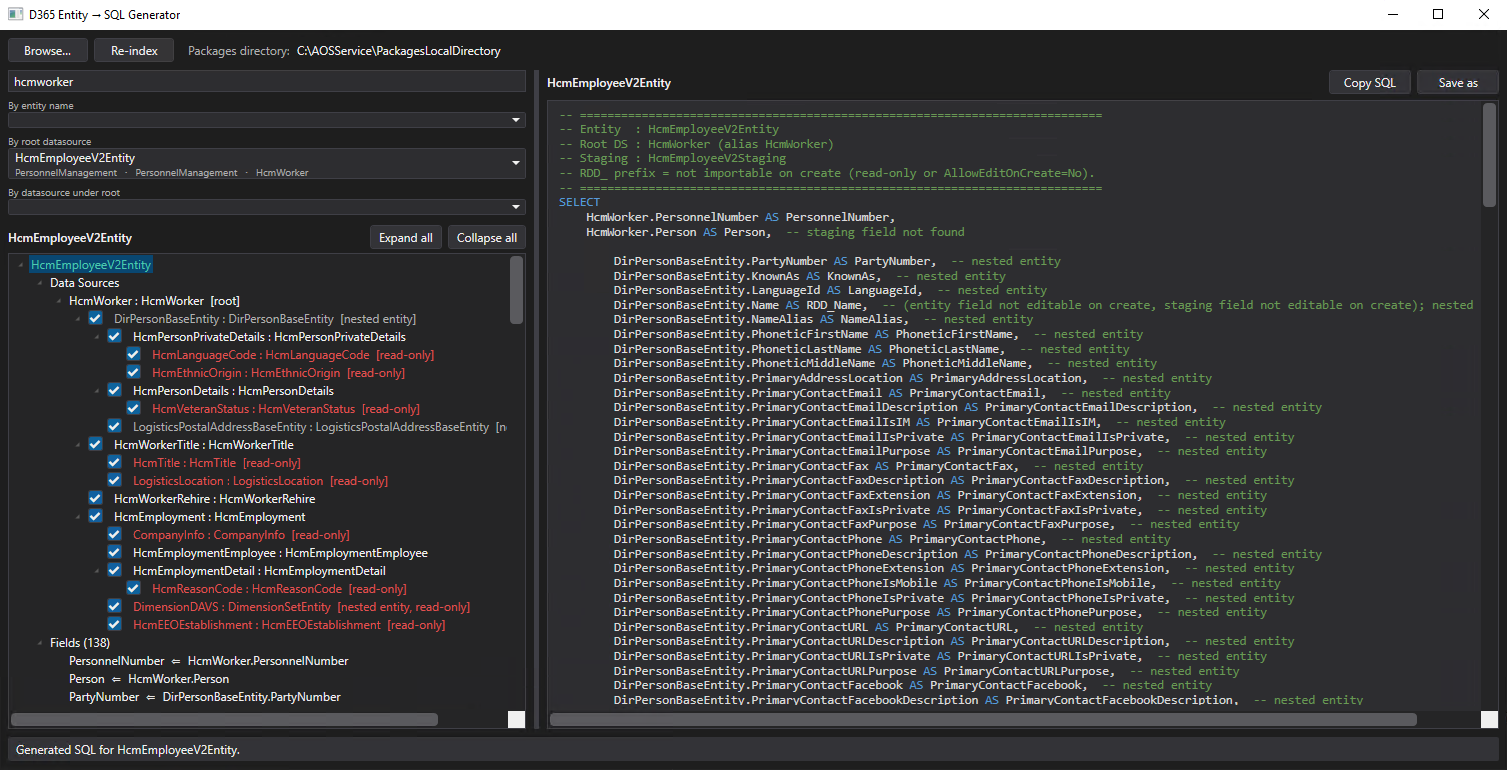
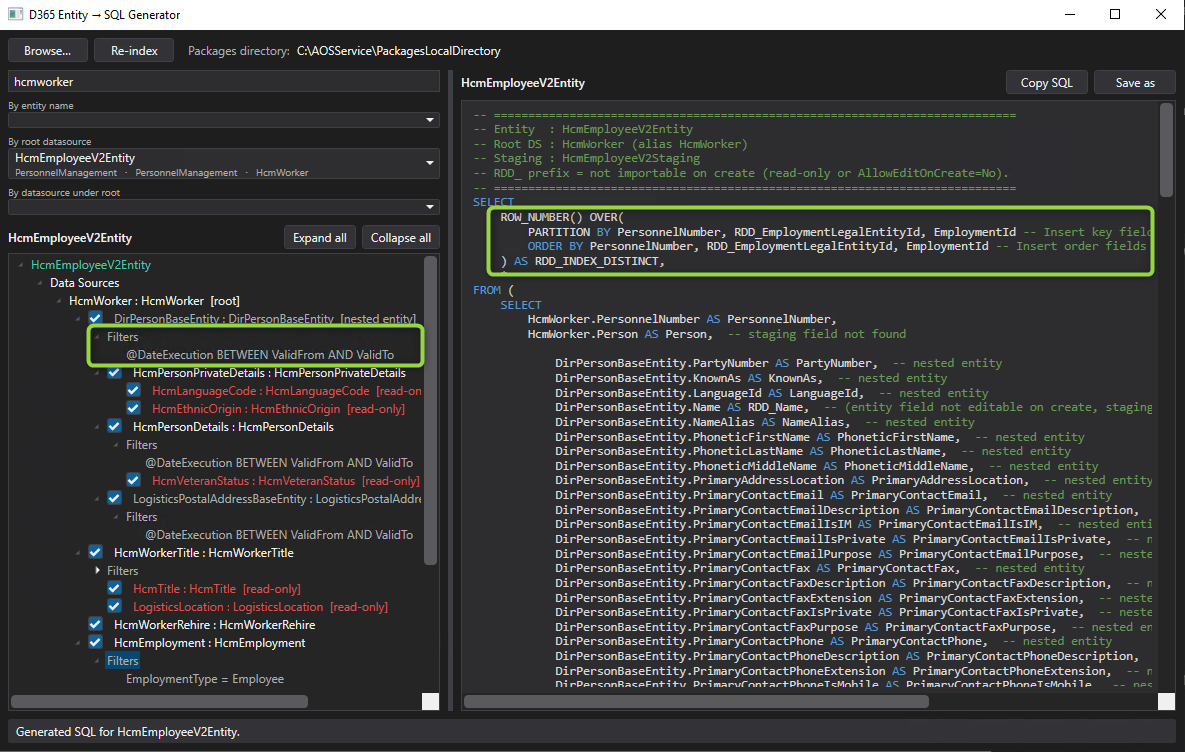
Update SQL with Primary Index + Filters in Tree Pane

Changed region(s): [[0.0, 0.0, 1.0, 1.0], [0.9367, 0.0, 1.0, 0.0612], [0.9992, 0.887, 1.0, 0.9176]]

diff --git a/Services/SqlGenerator.cs b/Services/SqlGenerator.cs
@@ -26,14 +26,15 @@ public sealed class SqlGenerator
     {
         _disabled = disabledDataSources ?? new HashSet<string>();
 
+        var header = new StringBuilder();
+        WriteHeader(header, entity);
+
         var sb = new StringBuilder();
         var root = entity.RootDataSource;
         var rootAlias = root?.Name ?? "";
         var staging = entity.DataManagementEnabled && entity.StagingTable.Length > 0
             ? _meta.GetTable(entity.StagingTable)
             : null;
-
-        WriteHeader(sb, entity);
 
         // ---- SELECT ----------------------------------------------------------------------------
         // Fields are grouped by their datasource and emitted in datasource tree order (root first,
@@ -42,6 +43,10 @@ public sealed class SqlGenerator
         // fields have no datasource and come last.
         var byDataSource = new Dictionary<string, List<string>>(StringComparer.OrdinalIgnoreCase);
         var computed = new List<string>();
+        // Entity field name → its output column alias (with RDD_ where applicable). Used by the
+        // ROW_NUMBER wrapper to reference primary-key columns; fields on disabled datasources are
+        // absent, which the wrapper flags as a missing key field.
+        var outputAlias = new Dictionary<string, string>(StringComparer.OrdinalIgnoreCase);
 
         foreach (var field in entity.Fields)
         {
@@ -49,6 +54,7 @@ public sealed class SqlGenerator
             {
                 computed.Add($"NULL AS RDD_{field.Name}"
                              + Comment($"computed / unmapped ({field.UnmappedType})"));
+                outputAlias[field.Name] = $"RDD_{field.Name}";
                 continue;
             }
 
@@ -64,6 +70,7 @@ public sealed class SqlGenerator
             if (!byDataSource.TryGetValue(field.DataSource, out var bucket))
                 byDataSource[field.DataSource] = bucket = new List<string>();
             bucket.Add($"{src} AS {dest}{BuildFieldComment(edit)}");
+            outputAlias[field.Name] = dest;
         }
 
         // Assemble groups in datasource tree order, each with its indentation.
@@ -106,6 +113,56 @@ public sealed class SqlGenerator
 
         // ---- WHERE -----------------------------------------------------------------------------
         WriteWhere(sb, entity, root, rootAlias);
+
+        var inner = sb.ToString().TrimEnd();
+        return WrapWithRowNumber(header, inner, entity, outputAlias);
+    }
+
+    /// <summary>
+    /// Wrap the generated query in an outer SELECT that adds a RDD_INDEX_DISTINCT ROW_NUMBER over
+    /// the entity's primary-key fields. With no usable key it falls back to PARTITION BY 1 /
+    /// ORDER BY (SELECT NULL) and flags "Missing primary key index".
+    /// </summary>
+    private static string WrapWithRowNumber(
+        StringBuilder header, string inner, EntityInfo entity, Dictionary<string, string> outputAlias)
+    {
+        string partition, order, endComment = "";
+
+        if (entity.PrimaryKeyFields.Count == 0)
+        {
+            partition = "1";
+            order = "(SELECT NULL)";   // SQL Server rejects a constant (ORDER BY 1) inside OVER()
+            endComment = " -- Missing primary key index";
+        }
+        else
+        {
+            var cols = new List<string>();
+            var missing = false;
+            foreach (var kf in entity.PrimaryKeyFields)
+            {
+                if (outputAlias.TryGetValue(kf, out var alias)) cols.Add(alias);
+                else { cols.Add(kf); missing = true; }   // key field not emitted (datasource off / not found)
+            }
+            partition = string.Join(", ", cols);
+            order = partition;
+            if (missing) endComment = " -- Missing field in primary key index";
+        }
+
+        var sb = new StringBuilder();
+        sb.Append(header);
+        sb.AppendLine("SELECT");
+        sb.AppendLine($"{Ind}ROW_NUMBER() OVER(");
+        sb.AppendLine($"{Ind}{Ind}PARTITION BY {partition} -- Insert key fields here --");
+        sb.AppendLine($"{Ind}{Ind}ORDER BY {order} -- Insert order fields here --");
+        sb.AppendLine($"{Ind}) AS RDD_INDEX_DISTINCT,{endComment}");
+        sb.AppendLine($"{Ind}*");
+        sb.AppendLine("FROM (");
+        foreach (var raw in inner.Split('\n'))
+        {
+            var line = raw.TrimEnd('\r');
+            sb.AppendLine(line.Length == 0 ? "" : Ind + line);
+        }
+        sb.AppendLine(") AS RDD_SOURCE");
 
         return sb.ToString().TrimEnd() + Environment.NewLine;
     }

diff --git a/Services/EntityParser.cs b/Services/EntityParser.cs
@@ -14,6 +14,7 @@ public sealed class EntityParser
                    ?? throw new InvalidDataException($"Empty XML: {filePath}");
 
         var stagingTable = root.Val("DataManagementStagingTable");
+        var primaryKey = root.Val("PrimaryKey");
         var entity = new EntityInfo
         {
             Name = root.Val("Name"),
@@ -25,7 +26,20 @@ public sealed class EntityParser
             DataManagementEnabled = root.Bool("DataManagementEnabled", defaultYes: false)
                                     && stagingTable.Length > 0,
             StagingTable = stagingTable,
+            PrimaryKey = primaryKey,
         };
+
+        // Primary key fields: PrimaryKey → Keys/AxDataEntityViewKey[Name] → Fields/AxDataEntityViewKeyField/DataField.
+        if (primaryKey.Length > 0)
+        {
+            var key = root.El("Keys").Els("AxDataEntityViewKey")
+                .FirstOrDefault(k => string.Equals(k.Val("Name"), primaryKey, StringComparison.OrdinalIgnoreCase));
+            foreach (var kf in key.El("Fields").Els("AxDataEntityViewKeyField"))
+            {
+                var df = kf.Val("DataField");
+                if (df.Length > 0) entity.PrimaryKeyFields.Add(df);
+            }
+        }
 
         // Entity fields: the direct child <Fields> whose items are AxDataEntityViewField.
         var fieldsEl = root.Els("Fields")

diff --git a/Models/EntityModels.cs b/Models/EntityModels.cs
@@ -81,6 +81,12 @@ public sealed class EntityInfo
     public bool DataManagementEnabled { get; init; }
     public string StagingTable { get; init; } = "";
 
+    /// <summary>Name of the primary key (the AxDataEntityViewKey referenced by PrimaryKey).</summary>
+    public string PrimaryKey { get; init; } = "";
+
+    /// <summary>Entity field names that make up the primary key, in order.</summary>
+    public List<string> PrimaryKeyFields { get; } = new();
+
     public List<EntityFieldInfo> Fields { get; } = new();
     public EntityDataSourceInfo? RootDataSource { get; set; }
 

diff --git a/README.md b/README.md
@@ -1,6 +1,6 @@
 # D365 Entity → SQL Generator
 
-A Windows desktop tool (WPF, .NET 8) that reads **Dynamics 365 Finance & Operations** data-entity metadata directly from a local `PackagesLocalDirectory` and generates a ready-to-adapt **T-SQL `SELECT`** that mirrors the entity: the datasource joins, the field-to-column mapping (`Source.Field AS EntityField`), company (`DataAreaId`) filtering, date-effectivity, and per-field import/edit annotations.
+A Windows desktop tool (WPF, .NET 8) that reads **Dynamics 365 Finance & Operations** data-entity metadata directly from a local `PackagesLocalDirectory` and generates a ready-to-adapt **T-SQL `SELECT`** that mirrors the entity: the datasource joins, the field-to-column mapping (`Source.Field AS EntityField`), company (`DataAreaId`) filtering, date-effectivity, per-field import/edit annotations, and a primary-key row index.
 
 It was built to speed up **data migrations into D365** — instead of opening an entity in Visual Studio and hand-writing the joins and field mappings for every entity you need to stage and import, you pick the entity and get the scaffold instantly, then repoint the `FROM` tables to your source/staging database.
 
@@ -26,8 +26,10 @@ It was built to speed up **data migrations into D365** — instead of opening an
   - **Date-effectivity**: `ApplyDateFilter` datasources get `@DateExecution BETWEEN ValidFrom AND ValidTo`.
   - **Fields grouped by datasource**, in tree order, indented by depth, entity field order preserved, blank line between groups.
   - **Computed / view-method fields** flagged and pushed to the end (`NULL AS …`).
+  - **Primary-key row index.** The whole query is wrapped in an outer `SELECT` that adds `ROW_NUMBER() OVER (PARTITION BY <key> ORDER BY <key>) AS RDD_INDEX_DISTINCT` as the first column (from the entity's `PrimaryKey`), followed by `*`. See [Primary-key row index](#primary-key-row-index).
 - **Import annotations.** Fields not importable on create are prefixed **`RDD_`** with a parenthetical reason. A field is flagged when `AllowEditOnCreate = No` in **any** of three places — entity field, staging table field, target (backing) table field — or when its datasource / the entity is read-only.
 - **Tree signalling.** Red nodes for read-only entities, read-only datasources, and entities not enabled for data management (no staging table).
+- **Datasource filters in the tree.** A datasource that carries query ranges or date-effectivity shows a non-checkable, expandable **Filters** subnode listing each filter (e.g. `EmploymentType = Employee`, `@DateExecution BETWEEN ValidFrom AND ValidTo`).
 - **Toggle datasources** on/off with checkboxes: a disabled datasource (and its children) is dimmed in the tree and dropped from the generated SQL, which regenerates instantly.
 - **SQL pane** with syntax highlighting, **Ctrl+F** find (with match count and highlight), **Copy** and **Save as** (`.sql`, defaulting to the entity name).
 - **Dark theme.**
@@ -76,6 +78,27 @@ For each embedded datasource the tool determines the `ON` conditions by, in orde
 5. otherwise a `-- TODO` marker so you can complete it by hand.
 
 **Nested entities** (a datasource whose table is itself another entity) are kept opaque: they are emitted with their own name and fields and a `-- nested entity` comment, on the assumption that you stage those entities beforehand.
+
+## Primary-key row index
+
+The whole generated query is wrapped so the first output column is a deterministic per-key row number, handy for de-duplication and staging:
+
+```sql
+SELECT
+    ROW_NUMBER() OVER(
+        PARTITION BY <primary-key fields> -- Insert key fields here --
+        ORDER BY <primary-key fields> -- Insert order fields here --
+    ) AS RDD_INDEX_DISTINCT,
+    *
+FROM (
+    <the entity query>
+) AS RDD_SOURCE
+```
+
+The key fields come from the entity's `PrimaryKey` → `AxDataEntityViewKey` → `AxDataEntityViewKeyField`, referenced by their **output column name** (so an `RDD_`-prefixed key column stays valid). `PARTITION BY` and `ORDER BY` are both pre-filled with the key fields and keep their placeholder comments so you can adjust the ordering by hand. Edge cases are annotated:
+
+- **No primary key** → `PARTITION BY 1` / `ORDER BY (SELECT NULL)`, flagged `-- Missing primary key index`. (`ORDER BY (SELECT NULL)` is used because SQL Server rejects a constant such as `ORDER BY 1` inside a window `ORDER BY`.)
+- **A key field on a datasource you toggled off** (so its column isn't in the subquery) is kept in `PARTITION BY` and the line is flagged `-- Missing field in primary key index`.
 
 ## Where settings live
 
